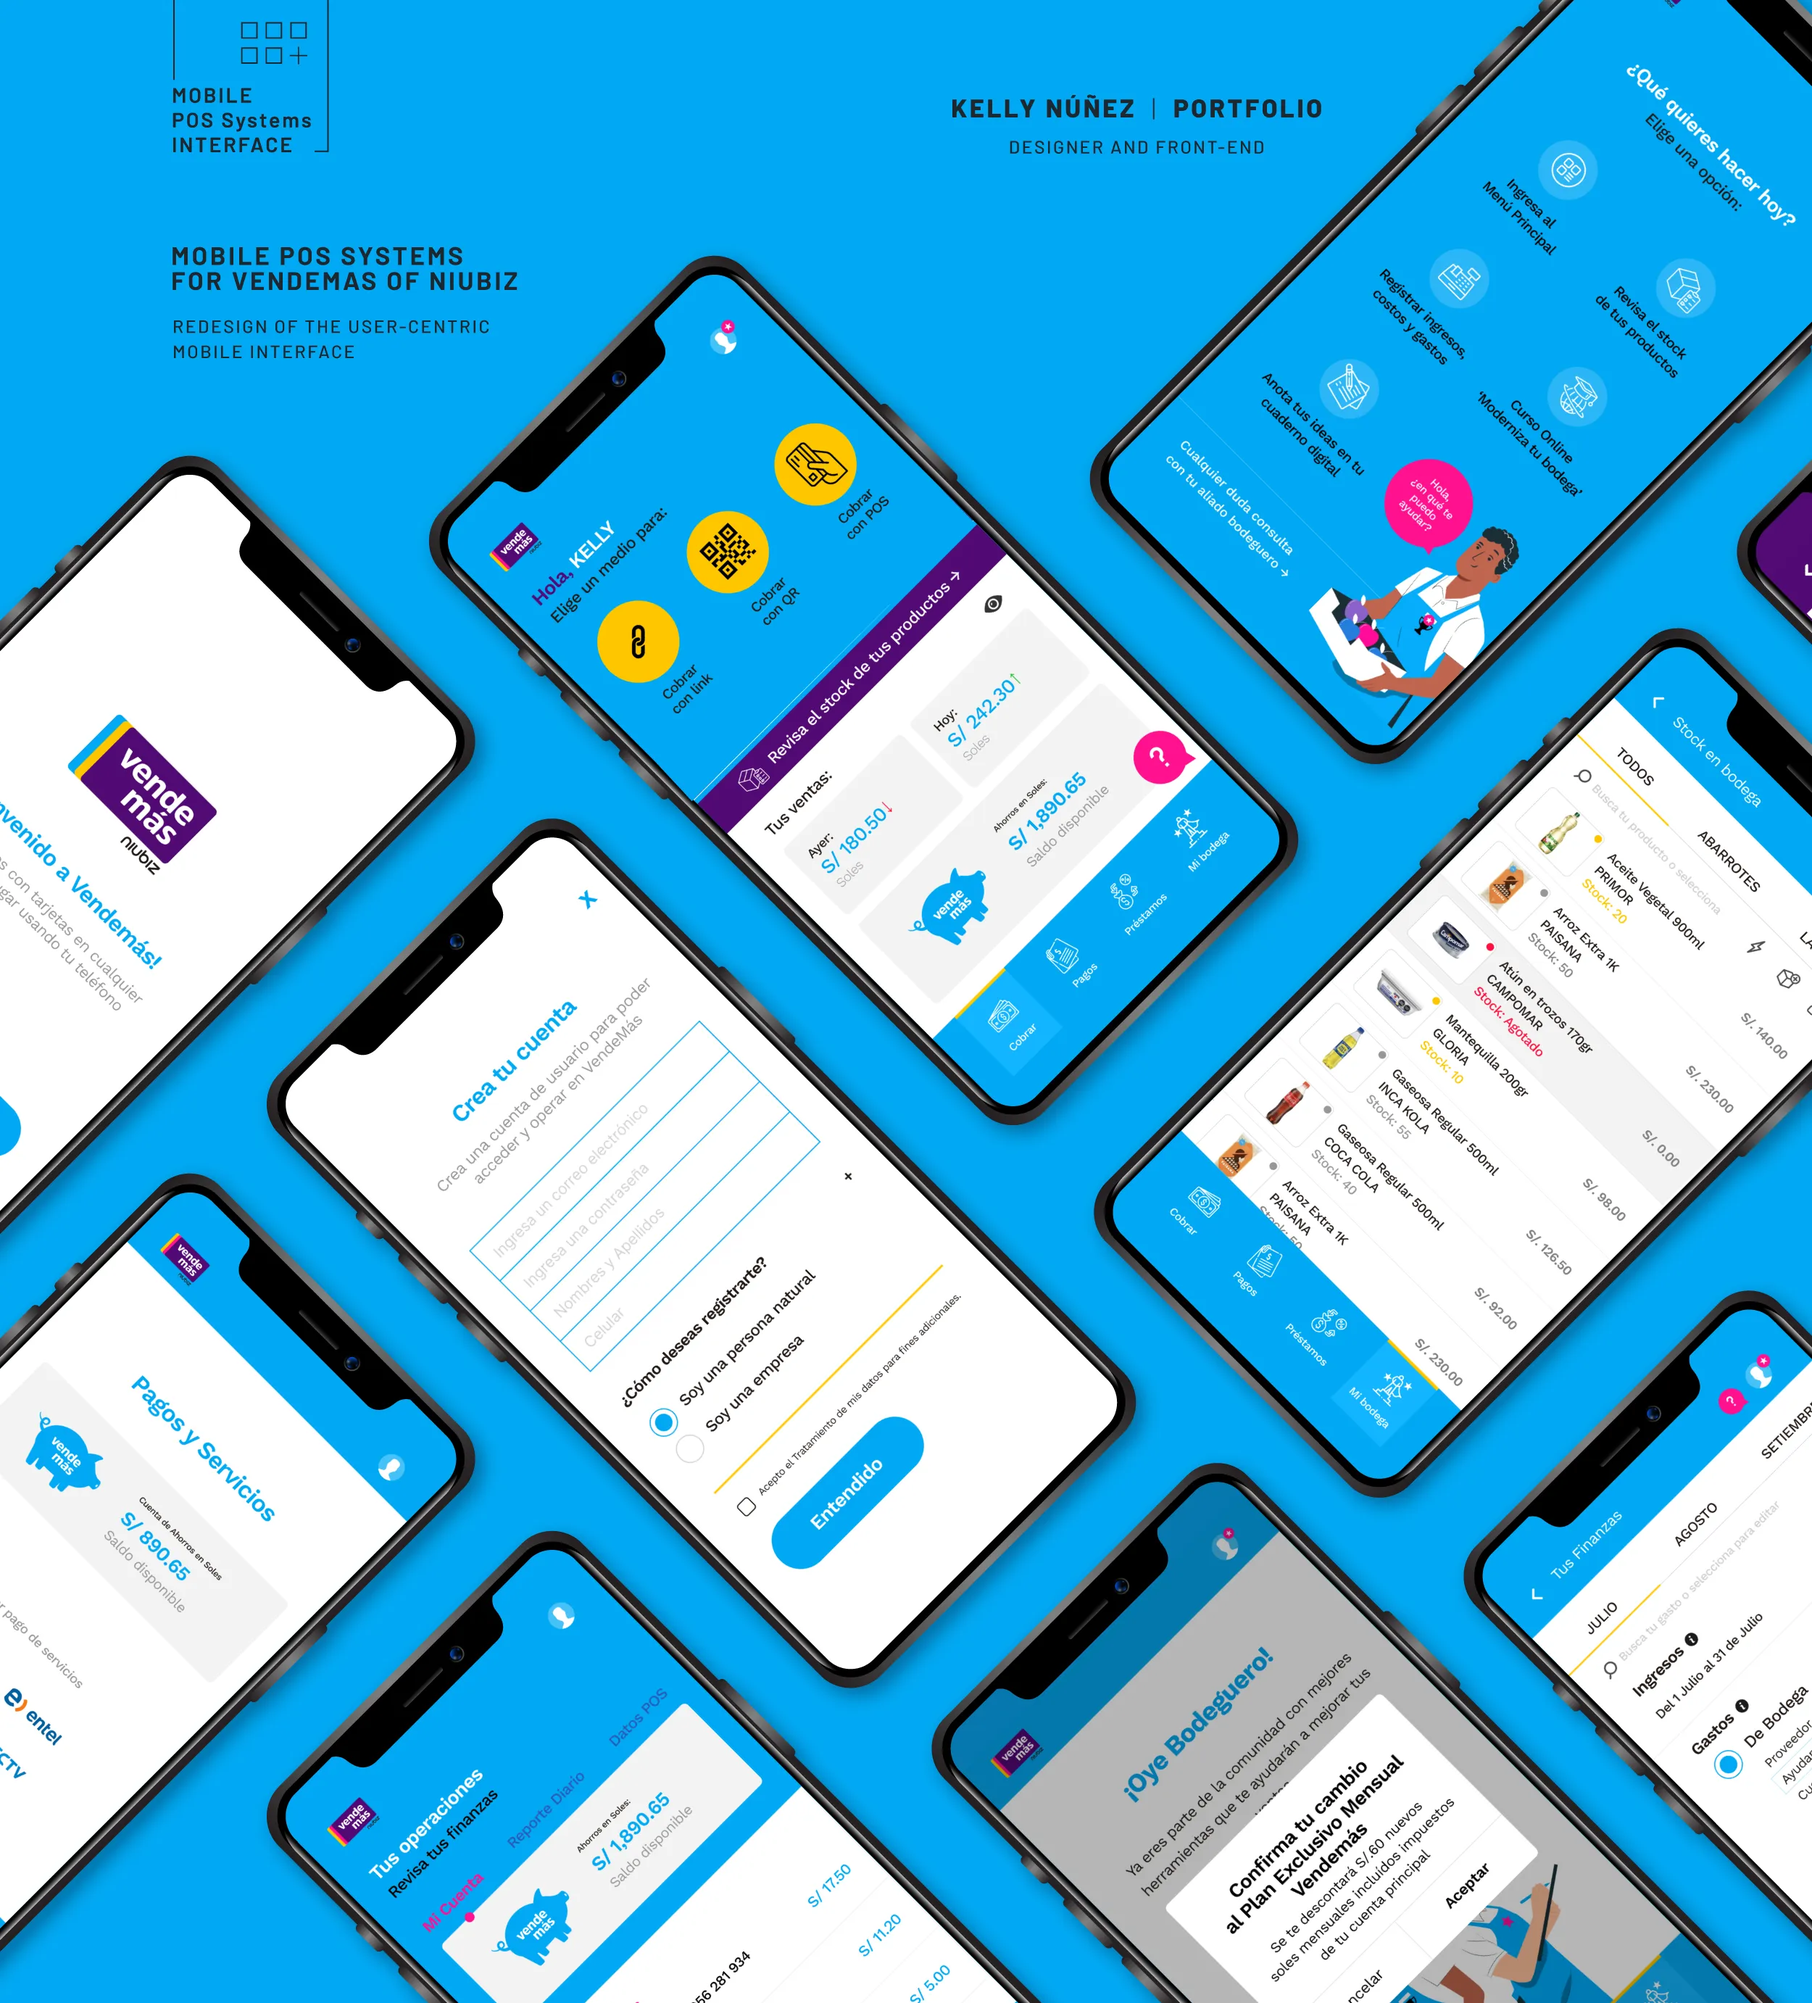
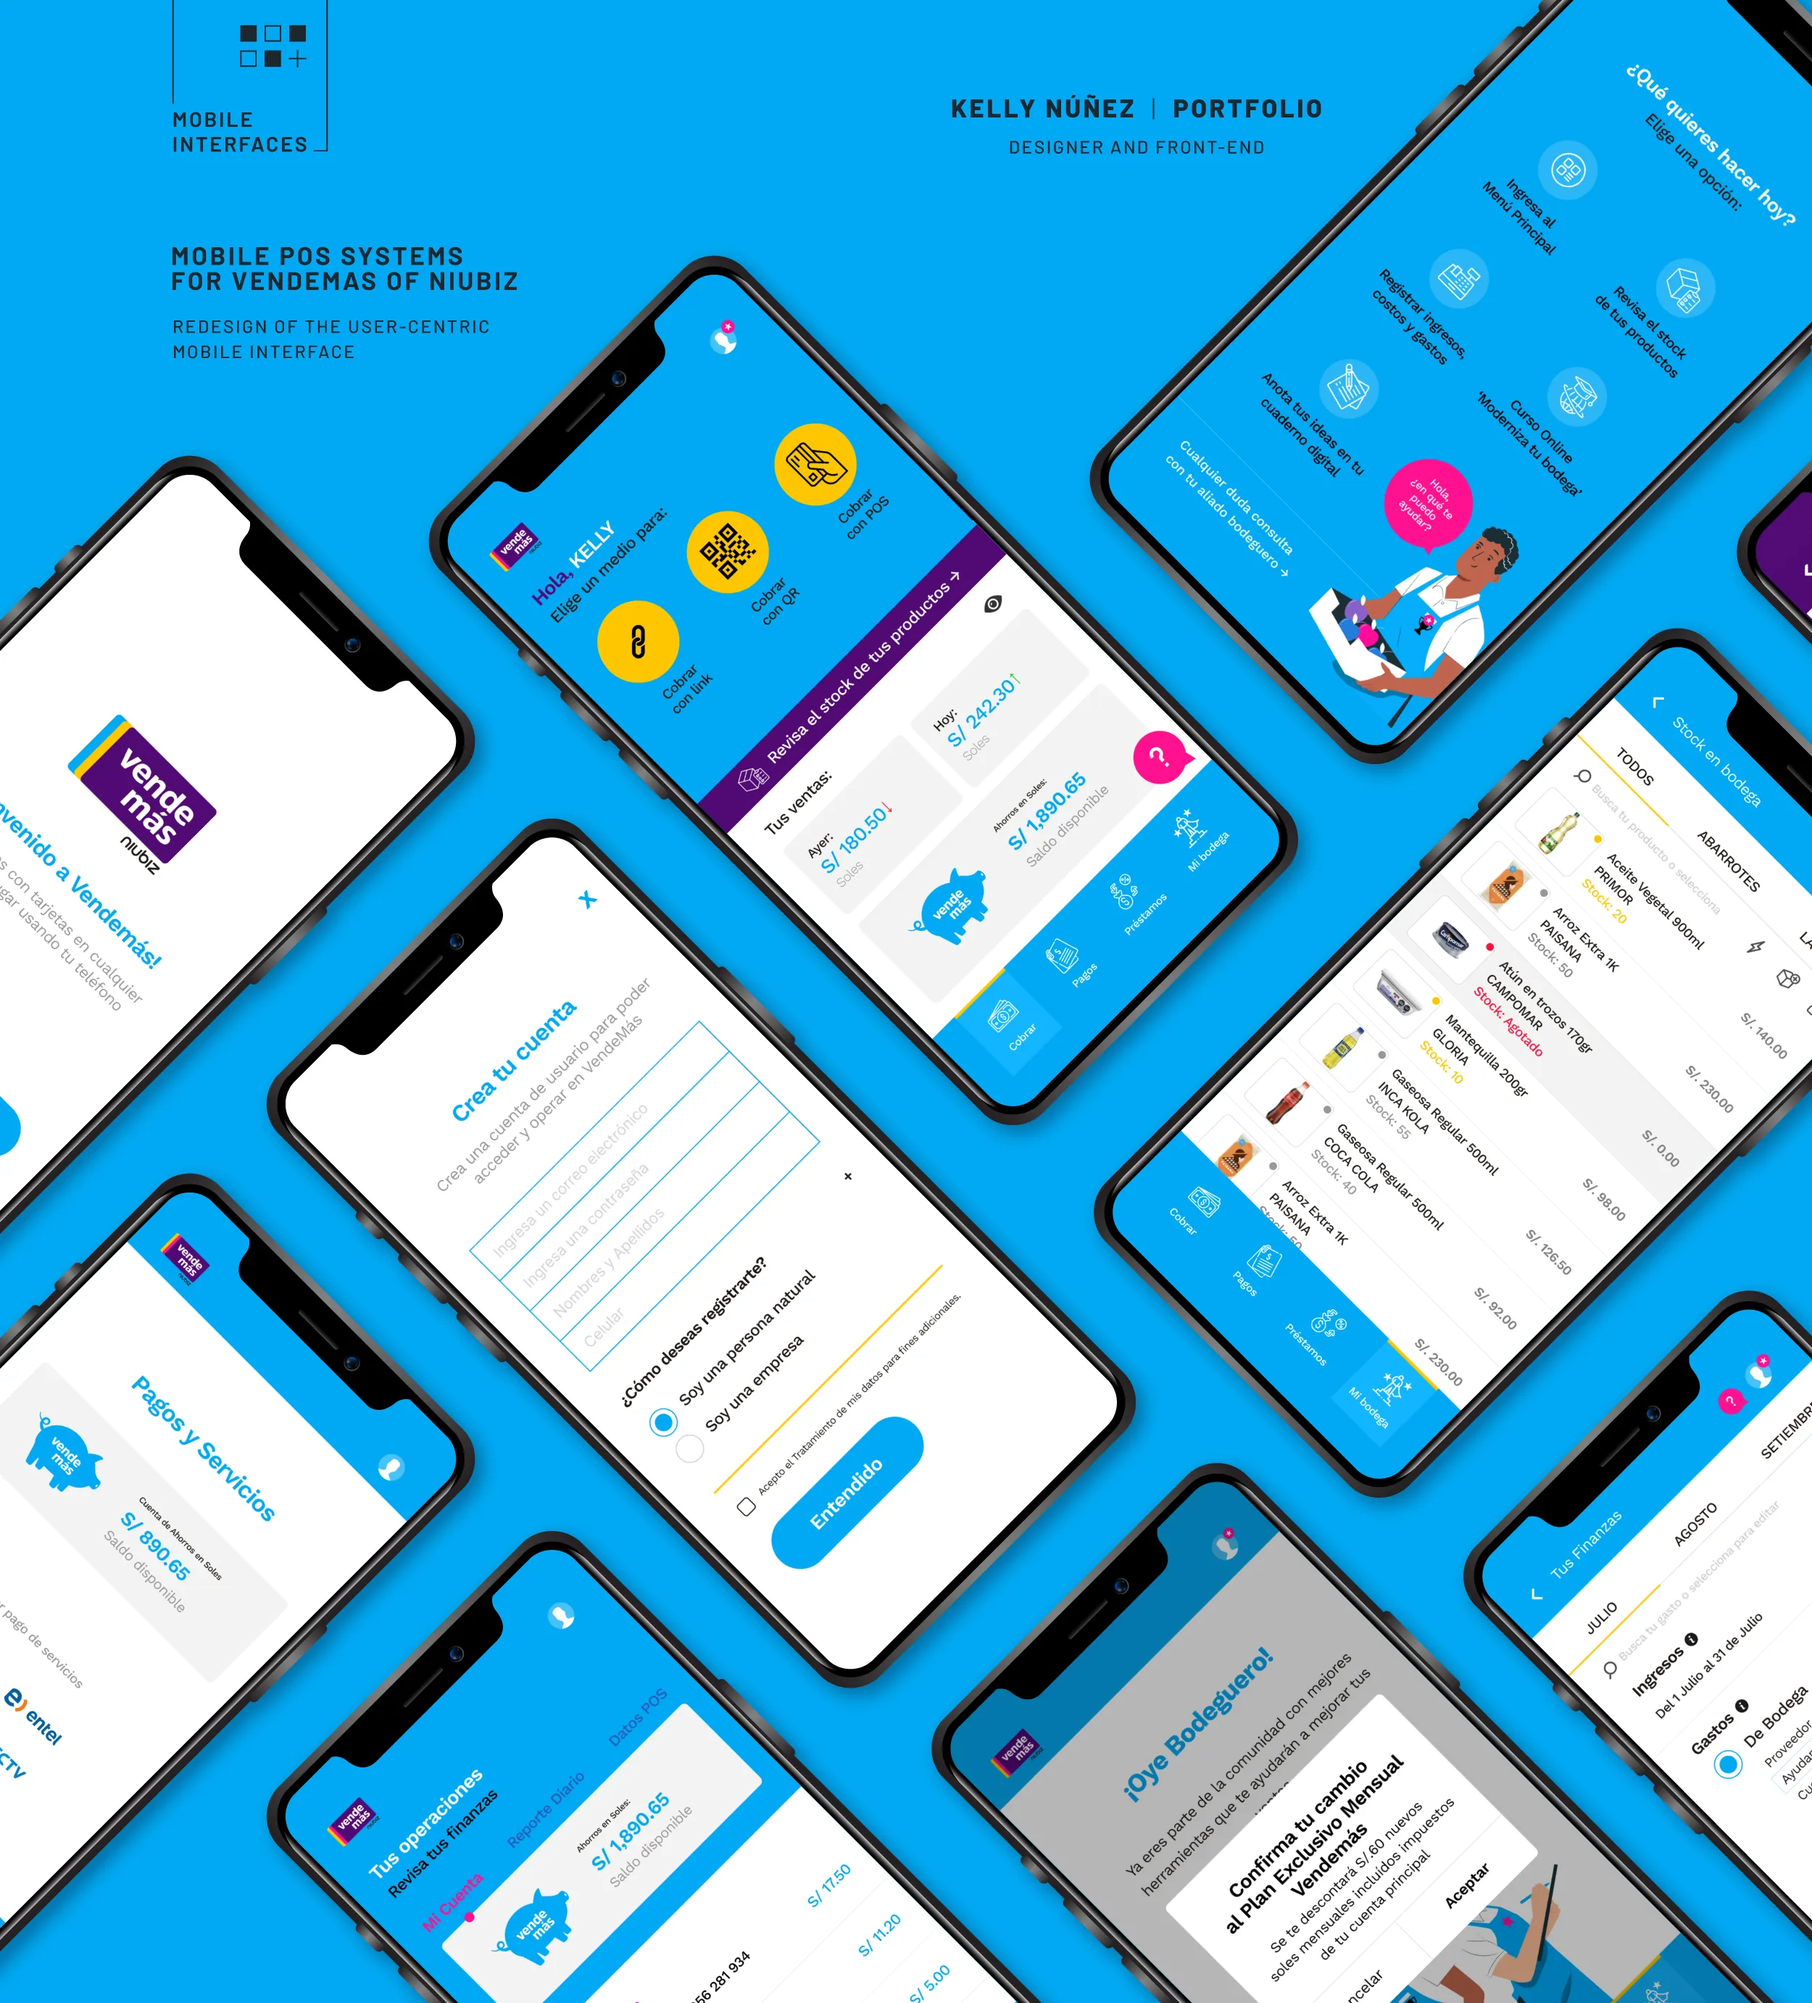
Reorder projects

Changed region(s): [[0.0936, 0.0, 0.1872, 0.0934], [0.9984, 0.8715, 1.0, 0.9026]]

diff --git a/src/components/projects/Projects.tsx b/src/components/projects/Projects.tsx
@@ -17,23 +17,8 @@ export const Projects = () => {
 };
 
 const projects = [
-   {
-    title: "System Design: Atomic",
-    imgSrc: "/project-imgs/web-corporative.webp",
-    projectLink: "https://the-composable-codex.netlify.app",
-    tech: ["TailwindCSS", "Figma", "Lottie Files", "Analytics Tools", "Office Suite"],
-    description:
-      "Xyz",
-    modalContent: (
-      <>
-        <p>
-          Pain.app is a real-time coaching app for students learning to paint.
-        </p>
-      </>
-    ),
-  },
   {
-    title: "Theseus Dark Theme",
+    title: "Atomic System Design",
     imgSrc: "/project-imgs/web-corporative.webp",
     projectLink: "https://voltron-data.netlify.app",
     tech: ["ReactJS", "TailwindCSS", "Sanity", "Motion", "Cursor", "Lottie Files"],
@@ -71,6 +56,50 @@ const projects = [
     ],
   },
   {
+    title: "Mobile Interfaces",
+    imgSrc: "/project-imgs/pos-niubiz.webp",
+    projectLink: "",
+    tech: ["Figma", "Illustrator", "Photoshop", "Miro"],
+    description:
+      "Xyz",
+    galleryImages: [
+      "/project-imgs/pos-niubiz/pos-header.webp",
+      "/project-imgs/pos-niubiz/pos-user.webp",
+      "/project-imgs/pos-niubiz/pos-niubiz.webp",
+      "/project-imgs/pos-niubiz/pos-mobile.webp",
+      "/project-imgs/pos-niubiz/pos-ux1.webp",
+      "/project-imgs/pos-niubiz/pos-ux2.webp",
+      "/project-imgs/app-project/app-mystery.webp",
+      "/project-imgs/app-project/app-livetrade.webp",
+      "/project-imgs/app-project/app-mobile.webp",
+    ],
+  },
+  {
+    title: "Web UI Projects",
+    imgSrc: "/project-imgs/webapp-project.webp",
+    projectLink: "",
+    tech: ["Linux", "VueJS", "Vuetify", "TailwindCSS", "Bootstrap", "Figma", "Adobe"],
+    description:
+      "Xyz",
+    galleryImages: [
+      "/project-imgs/app-project/app-header.webp",
+      "/project-imgs/app-project/app-login.webp",
+      "/project-imgs/app-project/app-blazing.webp",
+      "/project-imgs/app-project/app-dev.webp",
+      "/project-imgs/user-interface/ui-hero.webp",
+      "/project-imgs/user-interface/ui-content.webp",
+      "/project-imgs/app-project/app-spacedat.webp",
+      "/project-imgs/app-project/app-navbar.webp",
+      "/project-imgs/app-project/app-dashboard.webp",
+      "/project-imgs/user-interface/ui-conference.webp",
+      "/project-imgs/user-interface/ui-web.webp",
+      "/project-imgs/user-interface/ui-header.webp",
+      "/project-imgs/user-interface/ui-page.webp",
+            "/project-imgs/pos-niubiz/pos-landing.webp",
+
+    ],
+  },
+  {
     title: "Brand Identity",
     imgSrc: "/project-imgs/brand-identity.webp",
     projectLink: "",
@@ -88,63 +117,10 @@ const projects = [
     ],
   },
   {
-    title: "POS Systems Interface",
-    imgSrc: "/project-imgs/pos-niubiz.webp",
-    projectLink: "",
-    tech: ["Figma", "Illustrator", "Miro"],
-    description:
-      "Xyz",
-    galleryImages: [
-      "/project-imgs/pos-niubiz/pos-header.webp",
-      "/project-imgs/pos-niubiz/pos-user.webp",
-      "/project-imgs/pos-niubiz/pos-niubiz.webp",
-      "/project-imgs/pos-niubiz/pos-mobile.webp",
-      "/project-imgs/pos-niubiz/pos-landing.webp",
-      "/project-imgs/pos-niubiz/pos-ux1.webp",
-      "/project-imgs/pos-niubiz/pos-ux2.webp",
-    ],
-  },
-  {
-    title: "User Interfaces",
-    imgSrc: "/project-imgs/user-interfaces.webp",
-    projectLink: "",
-    tech: ["TailwindCSS", "Bootstrap", "HTML", "CSS", "Figma", "Illustrator"],
-    description:
-      "Xyz",
-    galleryImages: [
-      "/project-imgs/user-interface/ui-header.webp",
-      "/project-imgs/user-interface/ui-page.webp",
-      "/project-imgs/user-interface/ui-hero.webp",
-      "/project-imgs/user-interface/ui-content.webp",
-      "/project-imgs/user-interface/ui-conference.webp",
-      "/project-imgs/user-interface/ui-web.webp",
-    ],
-  },
-  {
-    title: "Web App Projects",
-    imgSrc: "/project-imgs/webapp-project.webp",
-    projectLink: "",
-    tech: ["Linux", "VueJS", "Vuetify", "Sass", "Materialize", "Adobe XD",],
-    description:
-      "Xyz",
-    galleryImages: [
-      "/project-imgs/app-project/app-header.webp",
-      "/project-imgs/app-project/app-login.webp",
-      "/project-imgs/app-project/app-blazing.webp",
-      "/project-imgs/app-project/app-dev.webp",
-      "/project-imgs/app-project/app-spacedat.webp",
-      "/project-imgs/app-project/app-navbar.webp",
-      "/project-imgs/app-project/app-dashboard.webp",
-      "/project-imgs/app-project/app-mystery.webp",
-      "/project-imgs/app-project/app-livetrade.webp",
-      "/project-imgs/app-project/app-mobile.webp",
-    ],
-  },
-  {
     title: "Social Media",
     imgSrc: "/project-imgs/social-media.webp",
     projectLink: "",
-    tech: ["Illustrator", "Photoshop"],
+    tech: ["X", "LinkedIn", "Illustrator", "Photoshop", "LLMs"],
     description:
       "Xyz",
     galleryImages: [
@@ -154,6 +130,8 @@ const projects = [
       "/project-imgs/social-media/social-seo.webp",
       "/project-imgs/social-media/social-post.webp",
       "/project-imgs/social-media/social-monopoly.webp",
+      "/project-imgs/social-media/social-newsletter-engine.webp",
+      "/project-imgs/social-media/social-festivity.webp",
     ],
   },
   {
